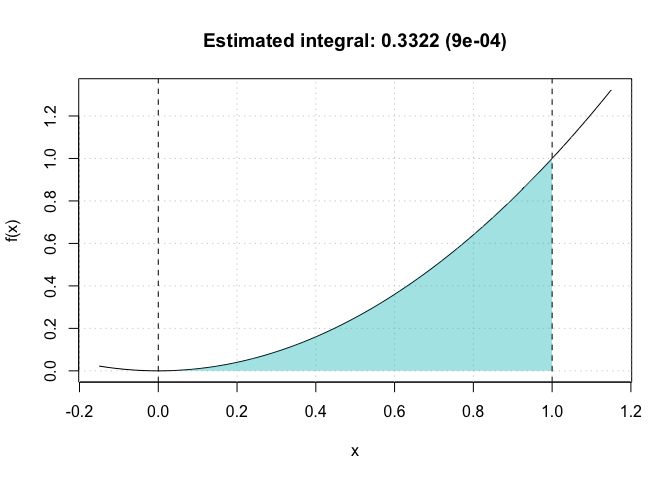
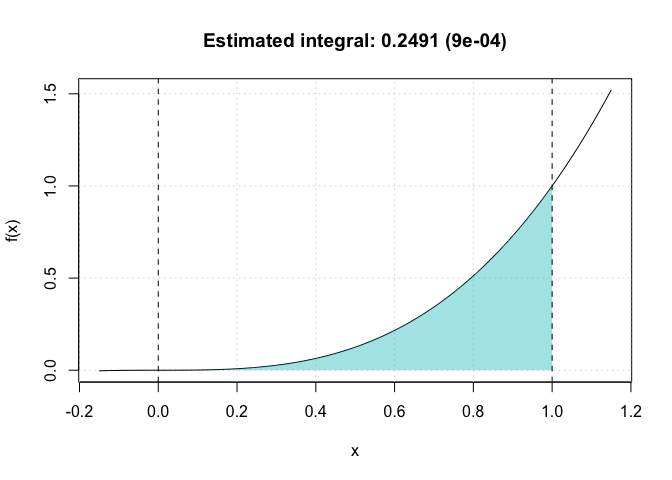
Update readme

diff --git a/README.md b/README.md
@@ -13,7 +13,7 @@ devtools::install_github("stephaneguerrier/demo")
 
 ``` r
 library(inclassdemo)
-obj = mc_int(x_range = c(0,1), fun = "x^2", B = 10^5)
+obj = mc_int(x_range = c(0,1), fun = "x^3", B = 10^5)
 plot(obj)
 ```
 
